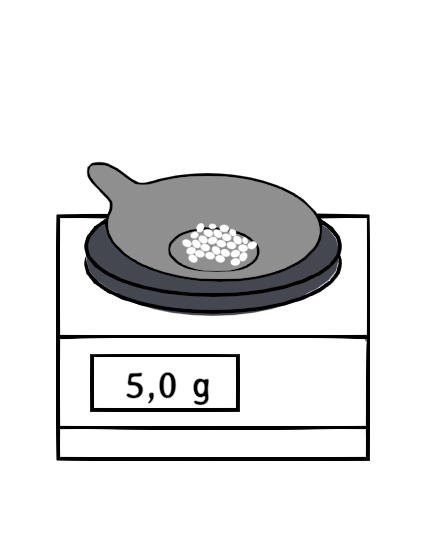
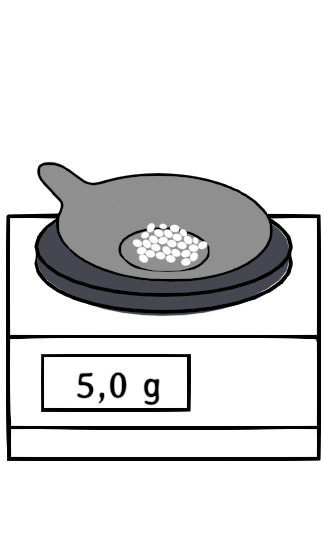
Ajout correction et amélioration TP 1.3 identification. Mise à jour des figures pour les protocoles de dilution et dissolution.

Changed region(s): [[0.0, 0.2963, 1.0, 0.8593], [0.5556, 0.6519, 0.5864, 0.7704]]

diff --git a/seconde/C1_corps_melanges/corpTP3_identification.tex b/seconde/C1_corps_melanges/corpTP3_identification.tex
@@ -53,23 +53,24 @@
     \begin{equation*}
       V = L \times p \times e
     \end{equation*}
-    Si $L$, $p$ et $e$ sont mesurées en \unit{\cm}, le résultat s’exprimera en \unit{\cubic\cm}.
 
     \centering
     \begin{tikzpicture}
       % Parallelepipede
-      \draw (0,0)--(4,0)--(4,2)--(0,2)--(0,0); % face
-      \draw (0,2)--(1,3)--(5,3)--(4,2); % haut
-      \draw (4,0)--(5,1)--(5,3); % côté
+      \draw (0,0)--(5,0)--(5,1)--(0,1)--(0,0); % face
+      \draw (0,1)--(1,2.2)--(6,2.2)--(5,1); % haut
+      \draw (5,0)--(6,1.2)--(6,2.2); % côté
       % Perspective
-      \draw[dashed] (0,0)--(1,1)--(1,3); % côté
-      \draw[dashed] (1,1)--(5,1); % fond
+      \draw[dashed] (0,0)--(1,1.2)--(1,2.2); % côté
+      \draw[dashed] (1,1.2)--(6,1.2); % fond
       % Legendes
-      \tkzVecteur(0)[4](-0.25){$L$}[below]*
-      \tkzVecteur(-0.25)(0)[2]{$e$}[left]*
-      \tkzVecteur(4.25)[1](-0.1)[1]{$p$}[right]*
+      \tkzVecteur(0)[5](-0.25){$L$}[below]*
+      \tkzVecteur(-0.25)(0)[1]{$e$}[left]*
+      \tkzVecteur(5.25)[1](-0.1)[1.2]{$p$}[right]*
     \end{tikzpicture}
   \end{multicols}
+  Si $L$, $p$ et $e$ sont mesurées en \unit{\cm},
+  le résultat s’exprimera en \unit{\cubic\cm}.
 \end{doc}
 
 \mesure Mesurer la masse volumique d'un échantillon à l'aide du matériel disponible.
@@ -77,7 +78,15 @@
 \question{
   En utilisant le document~\ref{doc:TP3_proprietes_metaux}, déterminer la nature de l'échantillon.
 }{
+  On a mesuré un volume $V = 10,0 \times 2,0 \times \qty{0.2}{\centi\m\cubed} = \qty{4,0}{\centi\m\cubed}$ et une masse $m = \qty{34,0}{\g}$.
+  L'échantillon a donc une masse volumique 
+  \begin{equation*}  
+    \rho
+    = \dfrac{30,0}{4,0}\unit{\g/\cubic\centi\m}
+    = \qty{7,5}{\g/\cubic\centi\m}
+  \end{equation*}
 
+  Comme l'échantillon est brillant et gris, on en déduit qu'on a du fer.
 }{2}
 
 
@@ -96,7 +105,7 @@
 \begin{doc}{Composition de trois eaux minérales}{doc:TP3_composition_eau}
   \begin{multicols}{3}
     \centering
-    \textbf{Vichy St Yorre} \\
+    \textbf{Vichy St Yorre} \\ \vspace*{-20pt}
     \begin{tableau}{l | r}
       \SetCell[c=2]{c} Minéralisation : \unit{\mg} pour \qty{1}{\litre} \\
       \ionBicarbonate & \num{4368} \\
@@ -110,7 +119,7 @@
     \end{tableau}
 
     %
-    \textbf{Mont Roucous\vphantom{p}} \\
+    \textbf{Mont Roucous} \\ \vspace*{-20pt}
     \begin{tableau}{l | r}
       \SetCell[c=2]{c} Minéralisation : \unit{\mg} pour \qty{1}{\litre} \\
       \ionBicarbonate & \num{1} \\
@@ -124,7 +133,7 @@
     \end{tableau}
     
     %
-    \textbf{Cristalline\vphantom{p}} \\
+    \textbf{Cristalline} \\ \vspace*{-20pt}
     \begin{tableau}{l | r}
       \SetCell[c=2]{c} Minéralisation : \unit{\mg} pour \qty{1}{\litre} \\
       \ionBicarbonate & \num{228} \\
@@ -223,4 +232,6 @@ Réaliser le protocole suivant :
 
 \question{
   En utilisant les documents~\ref{doc:TP3_composition_eau} et~\ref{doc:TP3_tests_ions}, donner l'eau minérale contenue dans chaque bécher.
-}{}{3}
+}{
+  
+}{3}

diff --git a/seconde/C1_corps_melanges/corpTP4_CCM.tex b/seconde/C1_corps_melanges/corpTP4_CCM.tex
@@ -108,7 +108,7 @@ Réaliser le protocole du document~\ref{doc:TP4_protocole_CCM}, avec un dépôt 
 
 \mesure
 Coller ici le chromatogramme \textbf{sec} et entourer les différentes tâches au crayon à papier.
-\vspace*{240pt}
+\pasCorrection{\vspace*{240pt}}
 
 \question{
   Pourquoi doit-on placer la ligne de dépôt au dessus du niveau de l'éluant ?
@@ -124,7 +124,7 @@ Coller ici le chromatogramme \textbf{sec} et entourer les différentes tâches a
 
 
 %%%%
-\begin{doc}{Lecture d'un chromatogramme}{doc:TP4_chromatogramme}
+\begin{doc}{Lecture d'un chromatogramme}{doc:TP4_lecture_chromato}
   \begin{multicols}{2}
     \begin{listePoints}
       \item \textbf{Lecture verticale :} si le dépôt d'un échantillon se sépare en plusieurs tâches, il s'agit d'un mélange.
@@ -147,7 +147,7 @@ Coller ici le chromatogramme \textbf{sec} et entourer les différentes tâches a
 \end{doc}
 
 \question{
-  En analysant le chromatogramme à l'aide du document~\ref{doc:TP4_chromatogramme}, indiquer si les échantillons sont des corps purs ou des mélanges.
+  En analysant le chromatogramme à l'aide du document~\ref{doc:TP4_lecture_chromato}, indiquer si les échantillons sont des corps purs ou des mélanges.
 }{
   Pour le bleu et le jaune, on a des corps purs (une seule tâche).
   Pour le vert on a un mélange, car le dépôt s'est séparé en deux tâches.
@@ -160,8 +160,7 @@ Coller ici le chromatogramme \textbf{sec} et entourer les différentes tâches a
 }{6}
 
 
-\newpage
-
+\pasCorrection{\newpage}
 %%%% Contexte
 \begin{contexte}
   Les huiles essentielles sont obtenues à partir de végétaux pressés ou par distillation fractionnée.
@@ -205,7 +204,7 @@ Coller ici le chromatogramme \textbf{sec} et entourer les différentes tâches a
   on s'attend à trouver du limonène dans l'huile essentielle d'orange et du citral dans l'huile essentielle de citron.
 }{2}
 
-\begin{doc}{Résultat d'une CCM}{doc:TP4_chromatogramme}
+\begin{doc}{Résultat d'une CCM}{doc:TP4_HEC_HEO}
   On a réalisé deux CCM pour déterminer la composition des huiles essentielles d'orange et de citron.
   \begin{center}
     \image{0.25}{images/donnees/chromato_HEC}

diff --git a/main.tex b/main.tex
@@ -130,22 +130,22 @@
 
 
   %%%% Seconde
-  \input{seconde/A1_notation_scientifique} % début
-  \input{seconde/TP1_secu_labo} % début
+  % \input{seconde/A1_notation_scientifique} % début
+  % \input{seconde/TP1_secu_labo} % début
   % \input{seconde/A2_analyse_dimensionnelle} % début mécanique
   % \input{seconde/A3_ordres_grandeurs} % début atome
   %% Corps purs et mélanges
   % \input{seconde/C1_corps_melanges/corpTP1_cocktail_cuisine}
-  % \input{seconde/C1_corps_melanges/corpTP2_repression_fraude}
-  % \input{seconde/C1_corps_melanges/corpTP3_identification}
+  \input{seconde/C1_corps_melanges/corpTP2_repression_fraude}
+  \input{seconde/C1_corps_melanges/corpTP3_identification}
   % \input{seconde/C1_corps_melanges/corpA1_composition_melange}
   % \input{seconde/C1_corps_melanges/corpTP4_CCM}
   % \input{seconde/C1_corps_melanges/corpA2_densite_air}
   %% Solutions
-  \input{seconde/C2_solution/soluTP1_dissolution_dilution}
-  \input{seconde/C2_solution/soluA1_dissolution}
-  \input{seconde/C2_solution/soluTP2_dosage_dakin}
-  \input{seconde/C2_solution/soluA2_dosage_sang}
+  % \input{seconde/C2_solution/soluTP1_dissolution_dilution}
+  % \input{seconde/C2_solution/soluA1_dissolution}
+  % \input{seconde/C2_solution/soluTP2_dosage_dakin}
+  % \input{seconde/C2_solution/soluA2_dosage_sang}
   %% Mecanique
   % \input{seconde/C3_mecanique/mecaTP1_referentiel} % 2h
   % \input{seconde/C3_mecanique/mecaA1_modele_vitesse} % 1h

diff --git a/seconde/C1_corps_melanges/corpA2_densite_air.tex b/seconde/C1_corps_melanges/corpA2_densite_air.tex
@@ -22,7 +22,7 @@
 
 
 %%%% docs
-\begin{doc}{Mesure de la masse volumique de l'air}{doc:A2_masse_volumique_air}
+\begin{doc}{Mesure de la masse volumique de l'air}{doc:A2_mesure_densite_air}
   \begin{wrapfigure}{r}{0.1\linewidth}
     \vspace*{-29pt}
     \qrcode{https://www.youtube.com/watch?v=isEo51ncsKU&t=26s}
@@ -67,7 +67,7 @@ Remplir le tableau ci-dessous
   \end{equation*}
 \end{doc}
 
-\newpage
+\pasCorrection{\newpage}
 \question{
   Rappeler les fractions volumique des gaz composant l'air (\chemfig{O_2}, \chemfig{N_2}, \chemfig{CO_2}, \chemfig{Ar}).
 }{
@@ -77,7 +77,7 @@ Remplir le tableau ci-dessous
   $p_v(\chemfig{Ar})   = \qty{0,9 }{\percent}$, 
 }{2}
 
-\begin{doc}{Masse volumique des gaz composant l'air}{doc:A2_masse_volumique_air}
+\begin{doc}{Masse volumique des gaz composant l'air}{doc:A2_masse_volumique_gaz}
   \textbf{Données :}
   \begin{listeTirets}
     \item Masse volumique du \chemfig{CO_2} gazeux : $\rho(\chemfig{CO_2}) = \qty{1,87}{\g/\litre}$.

diff --git a/seconde/C1_corps_melanges/corpTP1_cocktail_cuisine.tex b/seconde/C1_corps_melanges/corpTP1_cocktail_cuisine.tex
@@ -95,7 +95,7 @@ Utiliser les bouchons pour agiter doucement les différents mélanges.
   Décrire le contenu des tubes en utilisant le vocabulaire des documents~\ref{doc:TP1_vocabulaire_melange} et~\ref{doc:TP1_type_melange}.
 }{
   Le tube 1 contient un corps pur.
-  Le tube 2 contient un mélange hétérogène.
+  Le tube 2 contient un mélange hétérogène, on peut distinguer l'eau et l'huile.
   Le tube 3 contient un mélange homogène.
 }{3}
 
@@ -103,7 +103,7 @@ Utiliser les bouchons pour agiter doucement les différents mélanges.
 \question{
   Indiquer si l'eau et l'huile sont miscibles et si le sirop et l'huile sont miscibles.
 }{
-  L'eau et l'huile ne sont pas miscibles. Le sirop et l'huile ne sont pas miscibles.
+  L'eau et l'huile ne sont pas miscibles (mélange hétérogène). Donc le sirop et l'huile ne sont pas miscibles.
 }{2}
   
 

diff --git a/seconde/C2_solution/soluTP1_dissolution_dilution.tex b/seconde/C2_solution/soluTP1_dissolution_dilution.tex
@@ -120,7 +120,7 @@ En déduire la concentration massique de sucre dans la sirop $c_\text{sirop} =$ 
 %%%%
 \begin{doc}{Principe d'une dilution}{doc:TP1_principe_dilution}
   \begin{wrapfigure}[5]{r}{0.5\linewidth}
-    \vspace*{-32pt}
+    \vspace*{-16pt}
     \centering
     \begin{multicols}{4}
     \image{1.1}{images/chimie/protocoles/dissoDilu0007} \\[0pt]

diff --git a/seconde/TP1_secu_labo.tex b/seconde/TP1_secu_labo.tex
@@ -23,7 +23,7 @@
     \hspace{16pt} \image{0.45}{images/securite/picto_#1} \vAligne{-#2pt}
   }
   \begin{tblr}{
-    colspec = {|X[-1, h, m] |X[4, m] |}, hlines,
+    colspec = {|X[-1, h, m] | X[4, m] |}, hlines,
     row{1} = {couleurPrim!20, c}
   }
     \textbf{Pictogramme} & \textbf{Signification} \\

diff --git a/seconde/C2_solution/soluTP2_dosage_dakin.tex b/seconde/C2_solution/soluTP2_dosage_dakin.tex
@@ -68,7 +68,7 @@
 %%%%
 \begin{doc}{Protocole d'une dilution}{doc:TP2_protocole_dilution}
   \begin{wrapfigure}[5]{r}{0.5\linewidth}
-    \vspace*{-32pt}
+    \vspace*{-20pt}
     \centering
     \begin{multicols}{4}
     \image{1.1}{images/chimie/protocoles/dissoDilu0007} \\[0pt]
